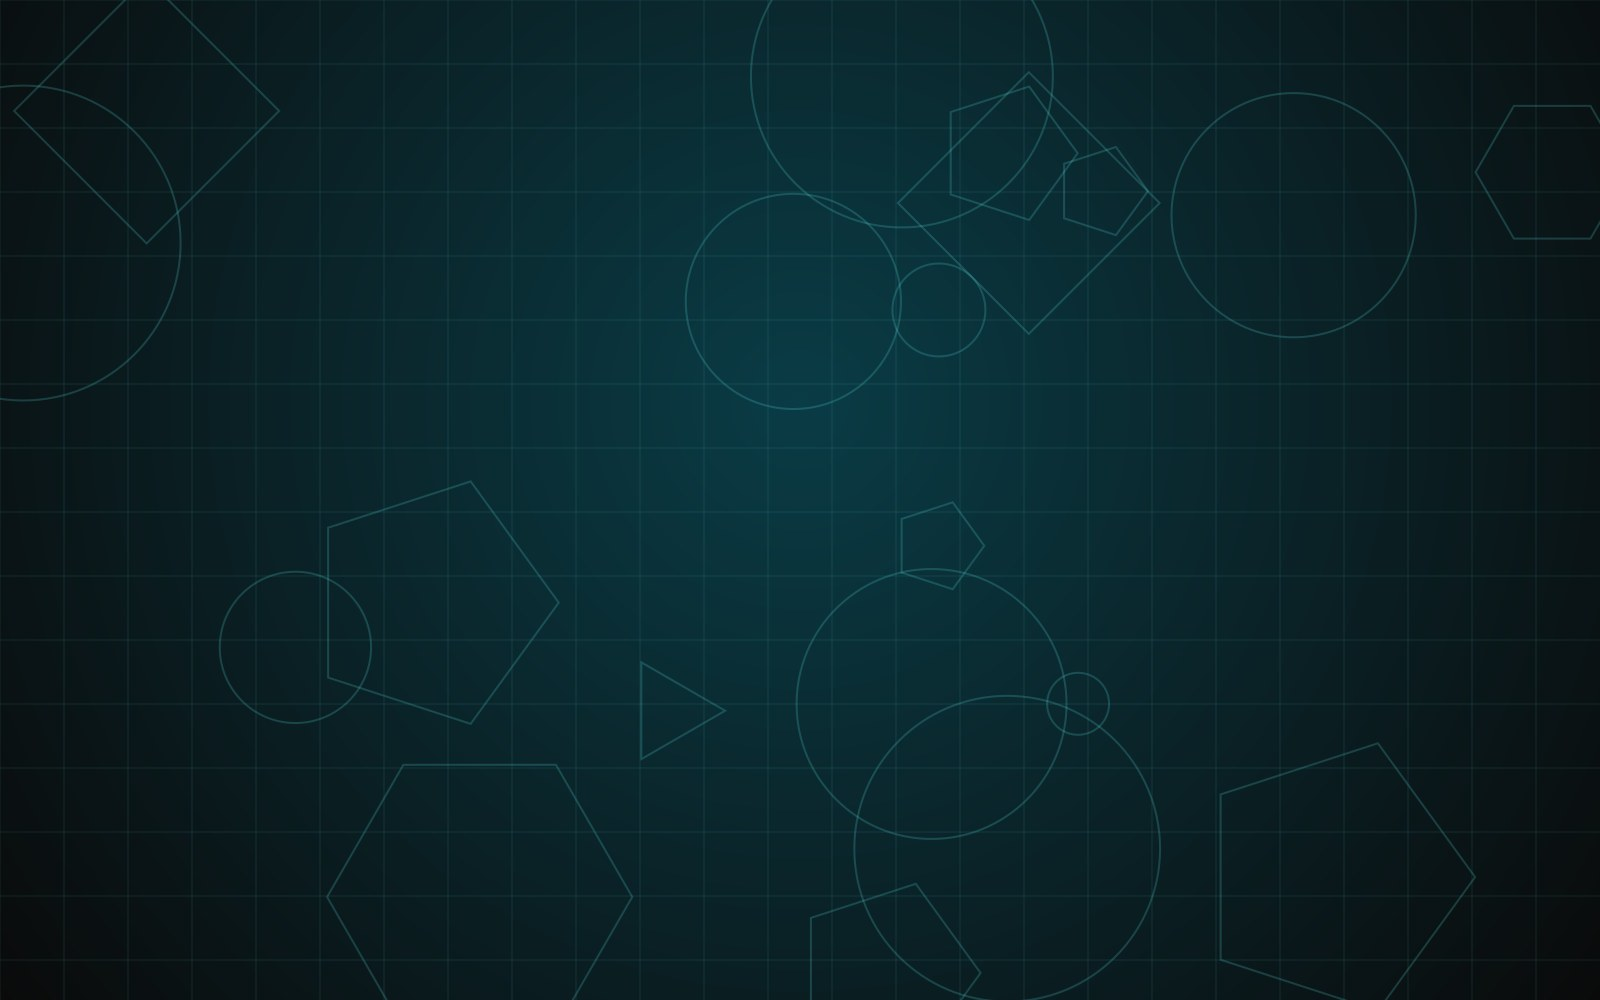
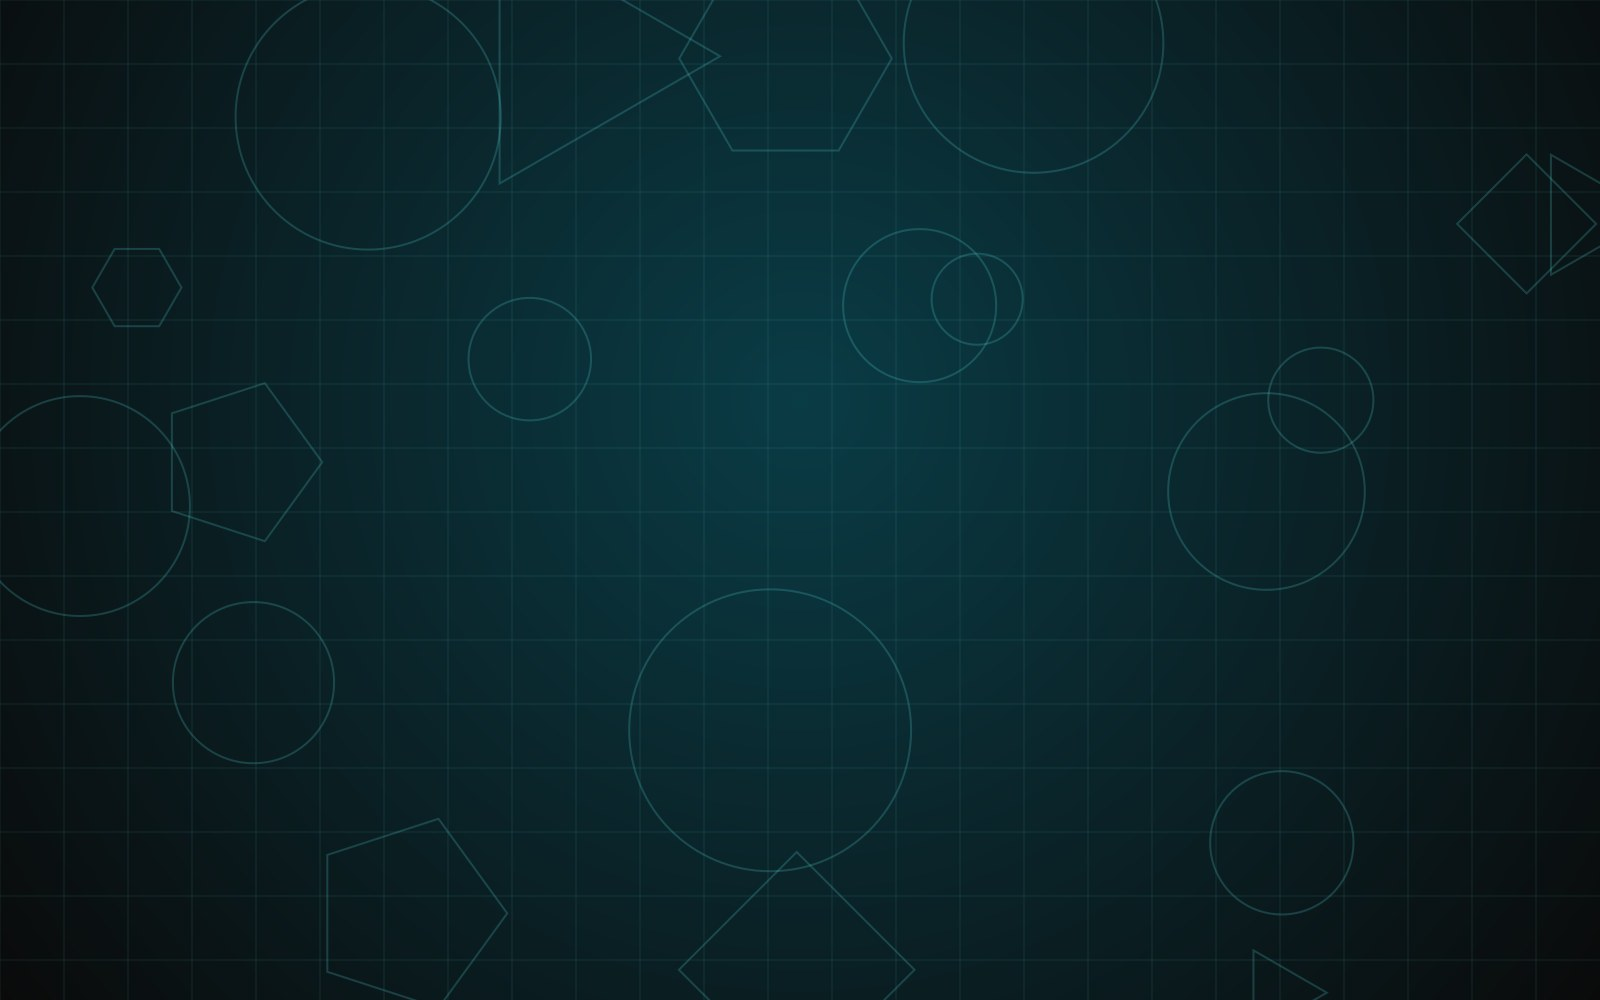
fix: add placeholder project image

diff --git a/create-placeholder.js b/create-placeholder.js
@@ -1,0 +1,55 @@
+const fs = require('fs');
+const { createCanvas } = require('canvas');
+
+const canvas = createCanvas(1600, 1000);
+const ctx = canvas.getContext('2d');
+
+// Dark background gradient
+const grad = ctx.createRadialGradient(800, 500, 0, 800, 500, 800);
+grad.addColorStop(0, '#1a1a2e');
+grad.addColorStop(1, '#0a0a0a');
+ctx.fillStyle = grad;
+ctx.fillRect(0, 0, 1600, 1000);
+
+// Grid pattern
+ctx.strokeStyle = '#00d4aa22';
+ctx.lineWidth = 1;
+for (let x = 0; x < 1600; x += 64) {
+  ctx.beginPath();
+  ctx.moveTo(x, 0);
+  ctx.lineTo(x, 1000);
+  ctx.stroke();
+}
+for (let y = 0; y < 1000; y += 64) {
+  ctx.beginPath();
+  ctx.moveTo(0, y);
+  ctx.lineTo(1600, y);
+  ctx.stroke();
+}
+
+// "COMING SOON" text
+ctx.fillStyle = '#00d4aa';
+ctx.font = 'bold 80px monospace';
+ctx.textAlign = 'center';
+ctx.textBaseline = 'middle';
+ctx.fillText('COMING SOON', 800, 450);
+
+ctx.font = '30px monospace';
+ctx.fillStyle = '#00d4aa88';
+ctx.fillText('Game Development Portfolio', 800, 550);
+
+// Subtle shapes
+ctx.strokeStyle = '#00d4aa33';
+ctx.lineWidth = 2;
+for (let i = 0; i < 8; i++) {
+  const cx = Math.random() * 1600;
+  const cy = Math.random() * 1000;
+  const r = 50 + Math.random() * 150;
+  ctx.beginPath();
+  ctx.arc(cx, cy, r, 0, Math.PI * 2);
+  ctx.stroke();
+}
+
+const buffer = canvas.toBuffer('image/jpeg', { quality: 0.85 });
+fs.writeFileSync('public/projects/placeholder.jpg', buffer);
+console.log('saved placeholder');
